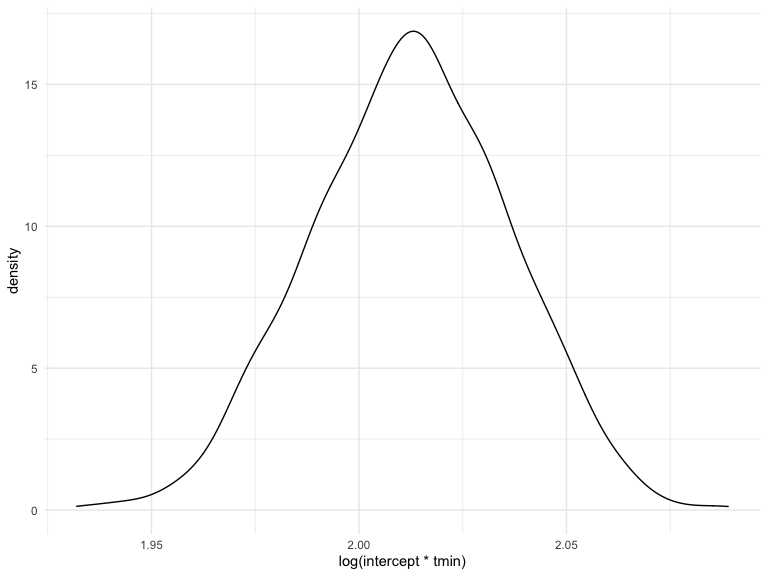
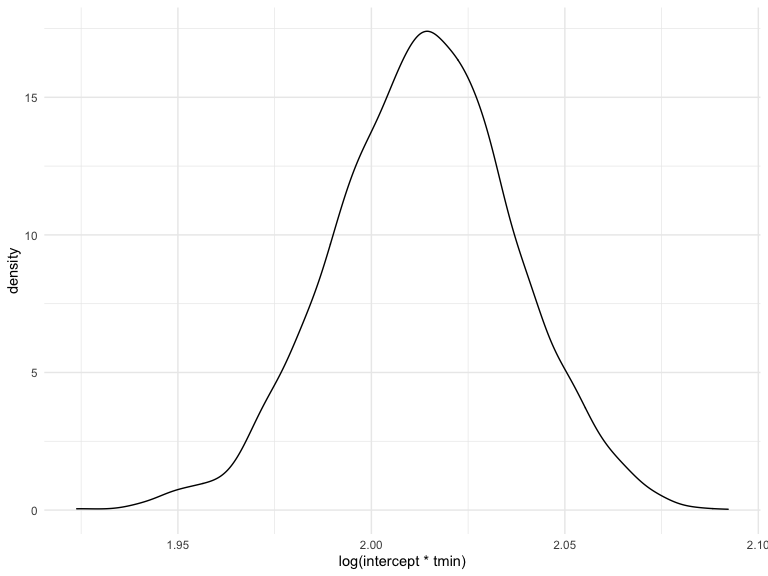
finished problem 3. need to finish problem 2

diff --git a/p8105_HW6_rkm2147.md b/p8105_HW6_rkm2147.md
@@ -284,10 +284,12 @@ sim_df =
   bind_rows(const = sim_df_const, nonconst = sim_df_nonconst, .id = "weather_df") 
 ```
 
+Preparation of the data frame for the first component of the problem
+
 ``` r
 boot_df = 
 weather_df %>% 
-  modelr::bootstrap(n = 1000) %>% 
+  modelr::bootstrap(n = 5000) %>% 
   mutate(
     models = map(strap, ~lm(tmax~tmin, data = .x)),
     results = map(models, broom::glance)
@@ -296,18 +298,26 @@ weather_df %>%
   unnest(results)
 ```
 
-make the plot for r2
+We can observe from the r-squared plot that the distribution is
+relatively normal. There is a slight skew towards the right where the
+values are closer to 1.
 
 ``` r
 r2_plot = 
   boot_df %>% 
   ggplot(aes(x = r.squared)) + geom_density()
+
+r2_plot  
 ```
+
+<img src="p8105_HW6_rkm2147_files/figure-gfm/unnamed-chunk-16-1.png" width="90%" />
+
+Preparation of the data frame for the next component of the problem
 
 ``` r
 beta_df = 
 weather_df %>% 
-  modelr::bootstrap(n = 1000) %>% 
+  modelr::bootstrap(n = 5000) %>% 
   mutate(
     models = map(strap, ~lm(tmax~tmin, data = .x)),
     results = map(models, broom::tidy)
@@ -320,18 +330,61 @@ weather_df %>%
   values_from = "estimate") %>% 
   janitor::clean_names() %>% 
   unnest(tmin, intercept)
-
-#pivot wider, tmin is the Beta 1
 ```
 
-make the plot for Beta nought and beta 1
+We can observe from the log(β̂0∗β1) plot that the distribution is
+relatively normal.
 
 ``` r
-r2_plot = 
+beta_plot = 
   beta_df %>% 
   ggplot(aes(x = log(intercept*tmin))) + geom_density()
  
-r2_plot 
+beta_plot 
 ```
 
 <img src="p8105_HW6_rkm2147_files/figure-gfm/unnamed-chunk-18-1.png" width="90%" />
+
+The 95% confidence interval created via the 2.5% and 97.5% quantiles for
+r squared is as follows
+
+``` r
+  quantile(boot_df$r.squared, 0.025)
+```
+
+    ##      2.5% 
+    ## 0.8942253
+
+``` r
+  quantile(boot_df$r.squared, .975) 
+```
+
+    ##     97.5% 
+    ## 0.9275221
+
+Created a new column to consider log(β̂0∗β1)
+
+``` r
+beta_df =
+  beta_df %>% 
+  mutate(
+    newvalue = log(intercept*tmin)
+  )
+```
+
+The 95% confidence interval created via the 2.5% and 97.5% quantiles for
+log(β̂0∗β1 is as follows
+
+``` r
+  quantile(beta_df$newvalue, 0.025)
+```
+
+    ##     2.5% 
+    ## 1.967026
+
+``` r
+  quantile(beta_df$newvalue, .975) 
+```
+
+    ##    97.5% 
+    ## 2.058945
